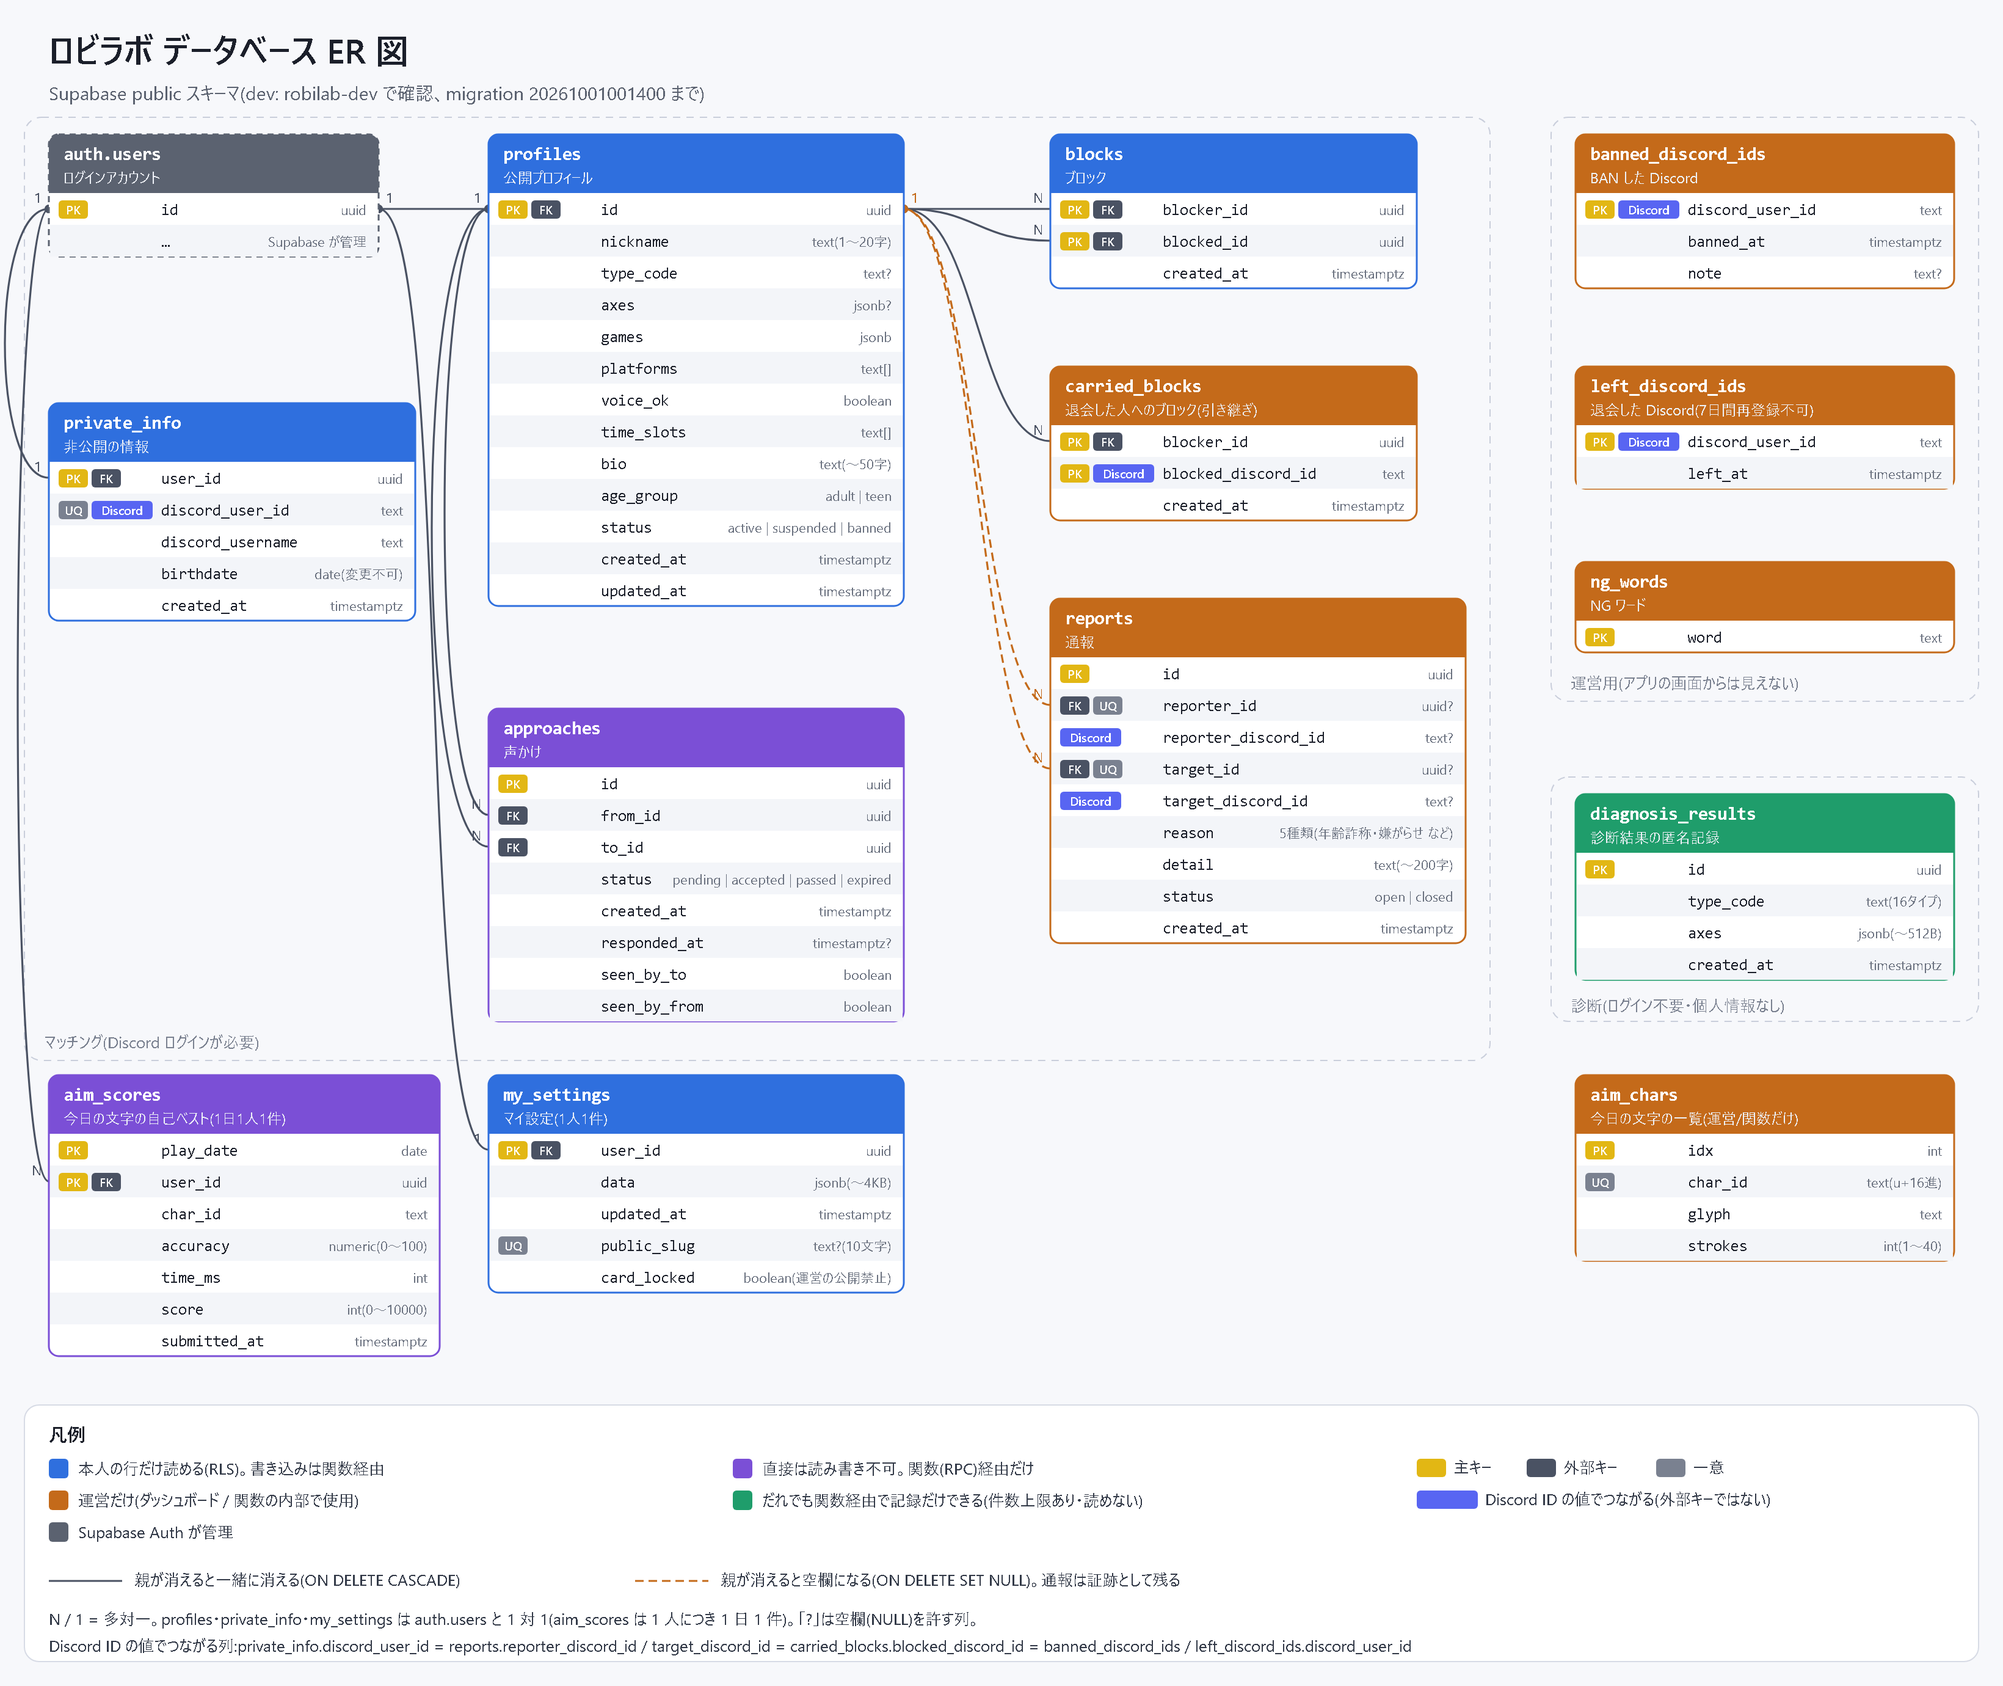
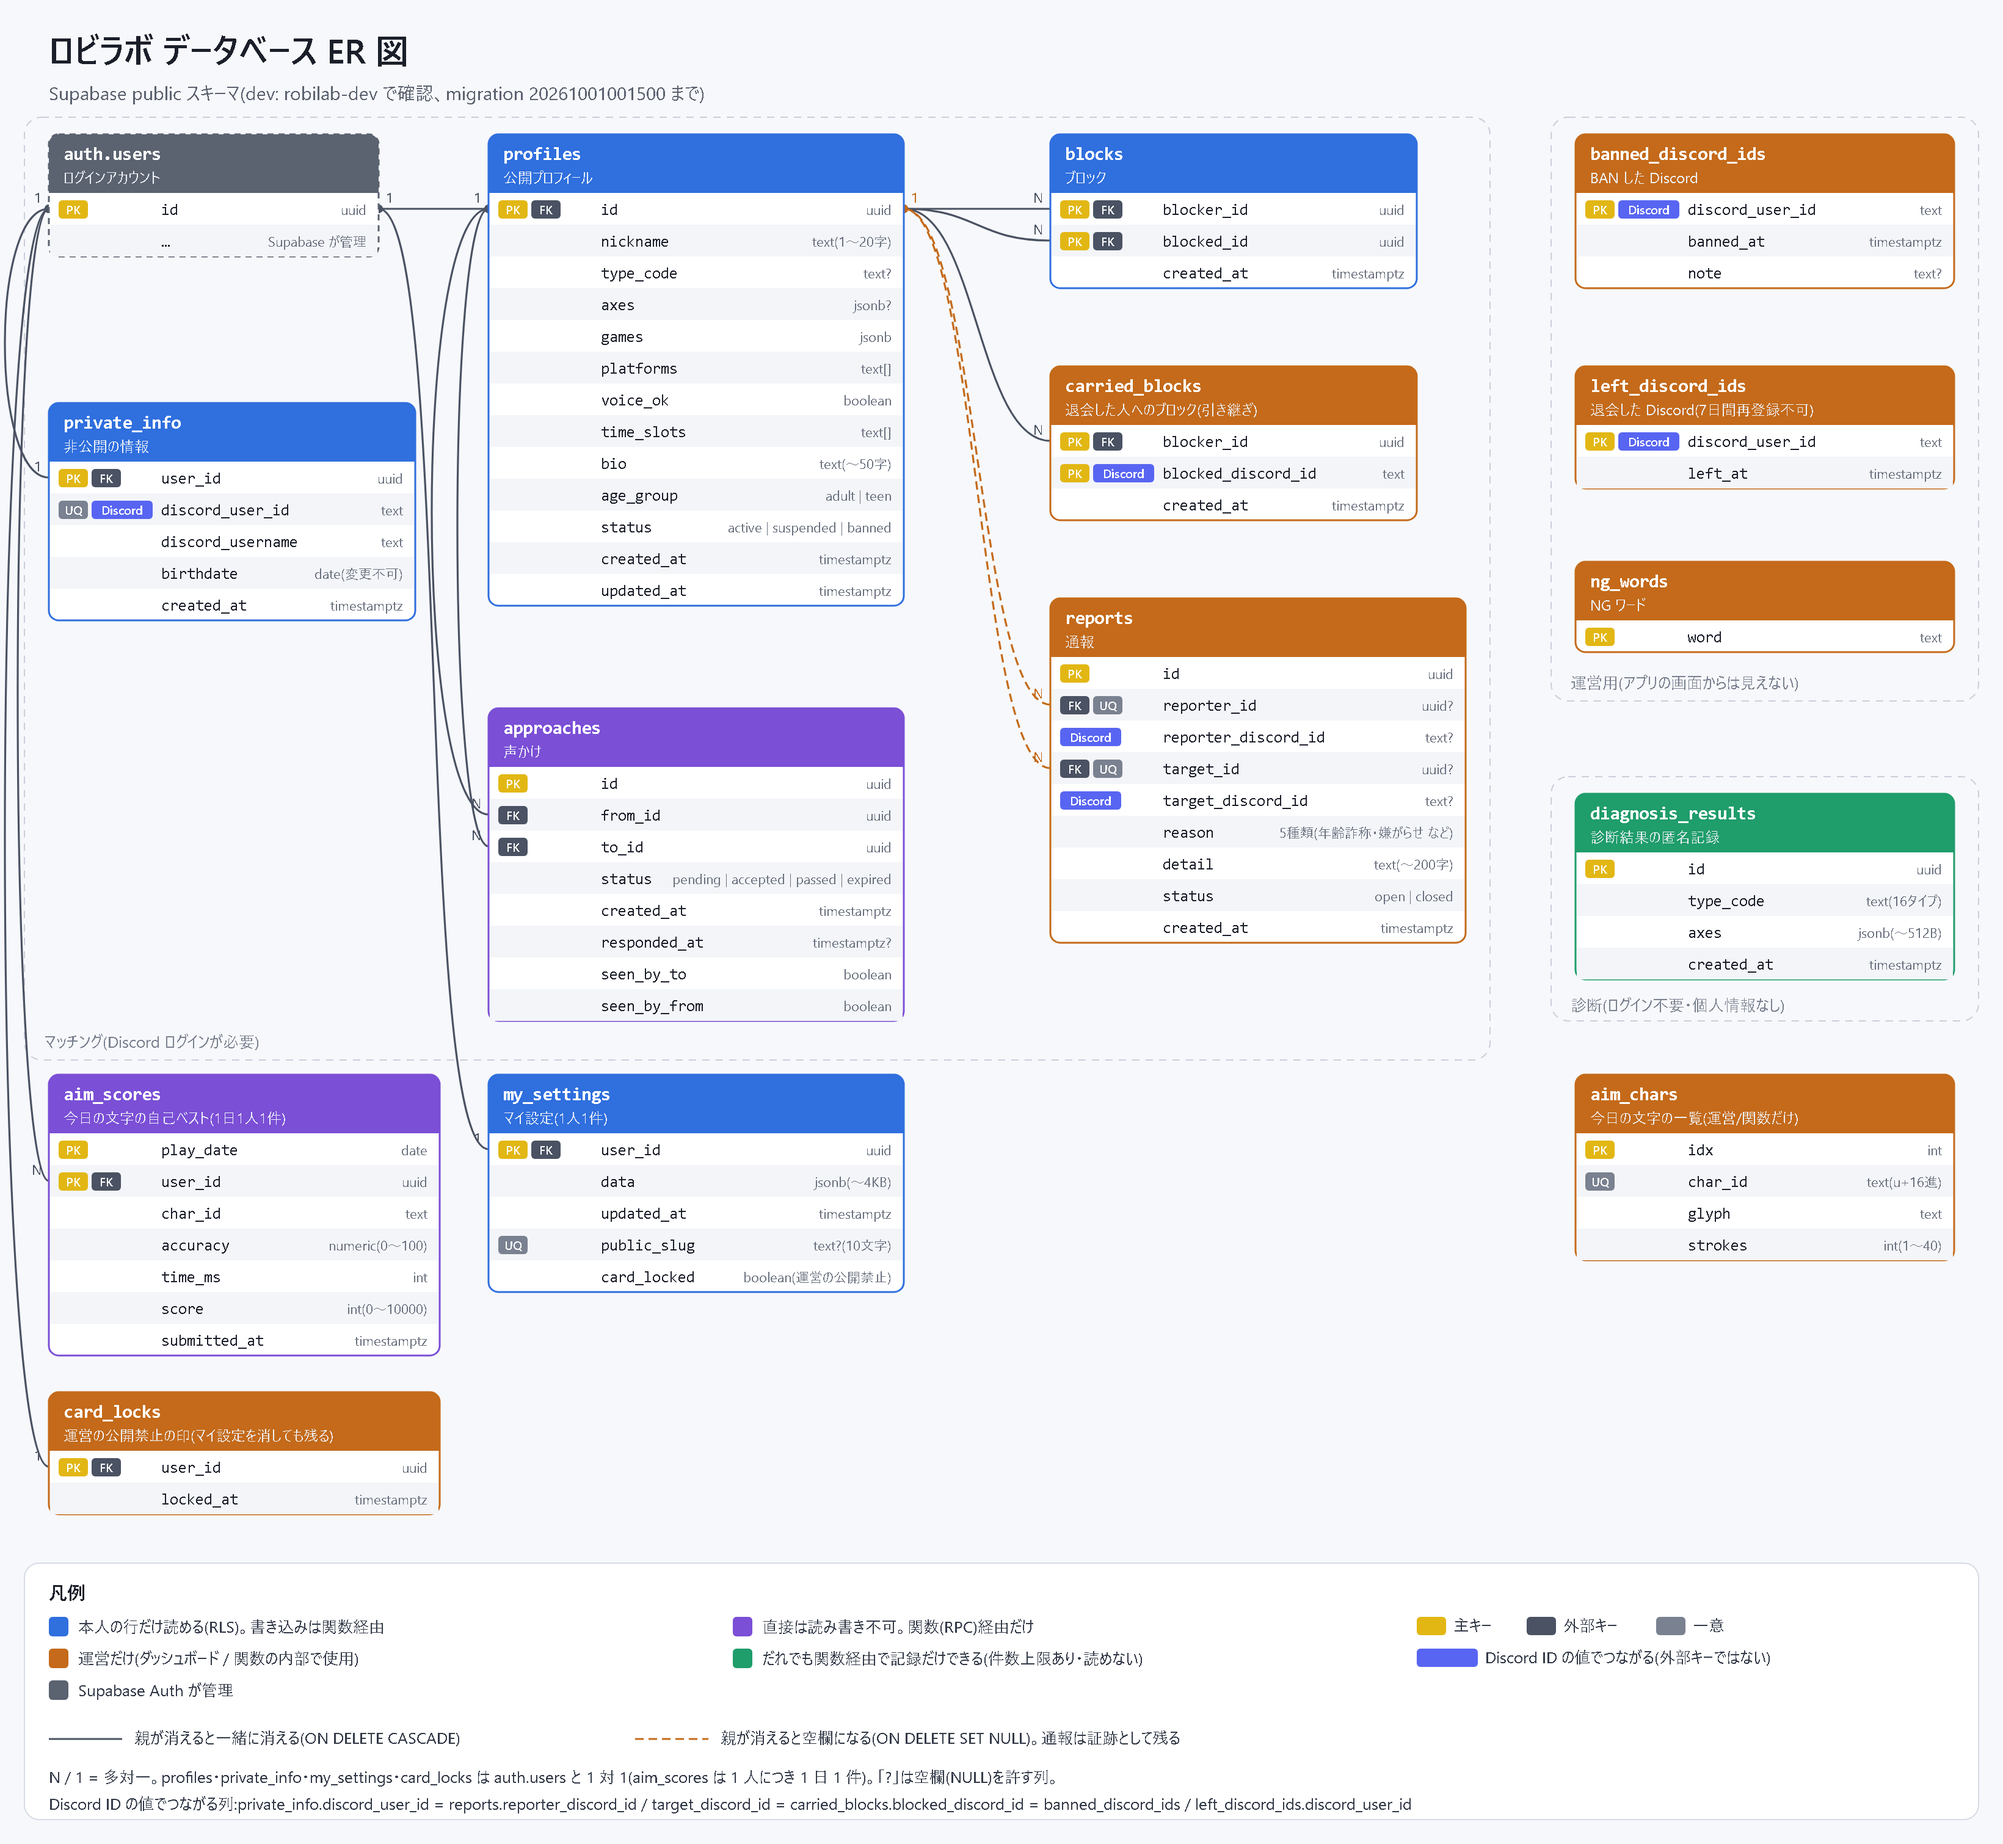
docs: 公開手順に migration の先行適用・画像の回数制限・関数定義の見比べを追加し、ER 図に card_locks を足す

diff --git a/docs/ops/launch.md b/docs/ops/launch.md
@@ -16,6 +16,7 @@
 
 1. **セキュリティゲート**:マージする内容で security-audit を実行し、confirmed の critical / high が 0 件であることを確認する(`public-web-security-gate` スキル)
 2. **本番 DB に未適用の migration を、番号順に適用する**(dev には適用済み)
+   - **0500〜1500 のすべてを、アプリのマージ・本番反映(手順3)より前に適用し終えること**。順番を逆にすると、新しいアプリが呼ぶ関数や表が本番にまだないため、版 2 のマイ設定(クロスヘア)が保存できず、`/aim` のランキング取得・記録の送信(`get_aim_ranking` / `my_aim_rank` / `submit_aim_score`)も失敗する
    - [ ] `supabase/migrations/20261001000500_discord_link.sql`(成立相手の Discord プロフィールリンク)
    - [ ] `supabase/migrations/20261001000600_rejoin_guard.sql`(退会・再登録の悪用対策)
    - [ ] `supabase/migrations/20261001000700_perf.sql`(インデックスと RLS ポリシーの性能改善)
@@ -26,9 +27,18 @@
    - [ ] `supabase/migrations/20261001001200_my_settings_moderation.sql`(利用停止・BAN と名刺の公開をつなぐ。上の 1100 とセット)
    - [ ] `supabase/migrations/20261001001300_my_settings_v2.sql`(マイ設定の拡張)
    - [ ] `supabase/migrations/20261001001400_aim_daily.sql`(今日の文字の表と関数。※ dev では 1400 のあとに、関数の中身が最終の 1400 と同じ dev 専用の記録 `aim_daily_ranking_names` を別に適用した。本番は 1300 と 1400 のファイルだけでよい)
+   - [ ] `supabase/migrations/20261001001500_card_locks.sql`(運営の公開禁止の印を別の表 `card_locks` にも残し、本人が設定を消して作り直しても印が戻るようにする。1200 のあと)
    - [ ] **Vercel の Firewall にルールを1つ足す**(マイ設定を公開するとき):パスが `/api/card-image` のリクエストを、IP ごとに1分20回まで(超えたら 429)。Vercel ダッシュボード → プロジェクト → Firewall → Custom Rules → Rate Limit
+   - [ ] **同じく Firewall に、パスが `/aim/opengraph-image` のリクエストを IP ごとに1分30回まで(超えたら 429)のルールを足す**(クエリを変えると CDN のキャッシュを通らず、毎回画像を描かせられるため)
    - 以降に追加した migration があれば、それも。dev と本番の `list_migrations` を見比べて、差がないことを確認する
    - 適用後、Supabase の SQL エディタで `select public._ng_normalize('テスト');` がエラーにならないこと、アドバイザー(security)に新しい警告が出ていないことを確認する
+   - [ ] **適用後、本番と dev の関数の定義を見比べる**(dev には dev 専用の記録 `aim_daily_ranking_names` が余分にあるため、`list_migrations` の差だけでは中身の違いに気づけない)。両方の SQL エディタで次を実行し、結果が同じであることを確認する
+     ```sql
+     select pg_get_functiondef('public.get_aim_ranking(date)'::regprocedure);
+     select pg_get_functiondef('public.my_aim_rank(date)'::regprocedure);
+     select pg_get_functiondef('public.submit_aim_score(date, text, numeric, int, int)'::regprocedure);
+     select pg_get_functiondef('public.save_my_settings(jsonb)'::regprocedure);
+     ```
    - 今の本番アプリ(計画1)はマッチング機能を使っていないので、手順2と3の間に古いアプリが新しい DB を使って困ることはない。マッチング機能を使うアプリが本番にある状態で DB を変えるときは、手順2と3の間に動作確認を1回入れる
 3. `feat/v0.1-part2` を `master` にマージする → Vercel が自動で本番に反映する
 4. 本番で動作確認(Claude はブラウザで、本人はスマホで)

diff --git a/plan.md b/plan.md
@@ -228,3 +228,4 @@
 | 2026-09-29 | 配色の整理に続き、エイム練習「今日の文字」の設計を再開。本人が設計 1/4〜4/4 を承認し、設計書を作成(D38、本人の確認待ち) |
 | 2026-09-29 | 今日の文字の設計書を本人が承認。実装計画(12タスク)を作成:[docs/superpowers/plans/2026-09-29-aim-daily.md](docs/superpowers/plans/2026-09-29-aim-daily.md) |
 | 2026-09-29 | エイム練習「今日の文字」を実装(feat/aim-daily、Task 1〜10)。dev に migration 1300・1400 を適用。ランキングの名前は名刺公開者のみ(本人確認待ち) |
+| 2026-09-29 | 監査 run-4(quick、`cf64960..2c0d0a7`)の後回し・強化メモに対応(feat/aim-daily):migration `20261001001500_card_locks`(運営の公開禁止の印を `card_locks` にも残し、設定を消して作り直しても印が戻る)、`get_aim_ranking` の利用停止・BAN の判定を上位10件がそろうまでに限定し索引を並びと一致させる(1400 を修正)、クロスヘアの shape を文字列に限定(1300 を修正)。launch.md に「migration 0500〜1500 をマージ前にすべて適用」「`/aim/opengraph-image` の回数制限」「本番と dev の関数定義の見比べ」を追加。ER 図を更新。1300〜1500 は本番未適用 |
